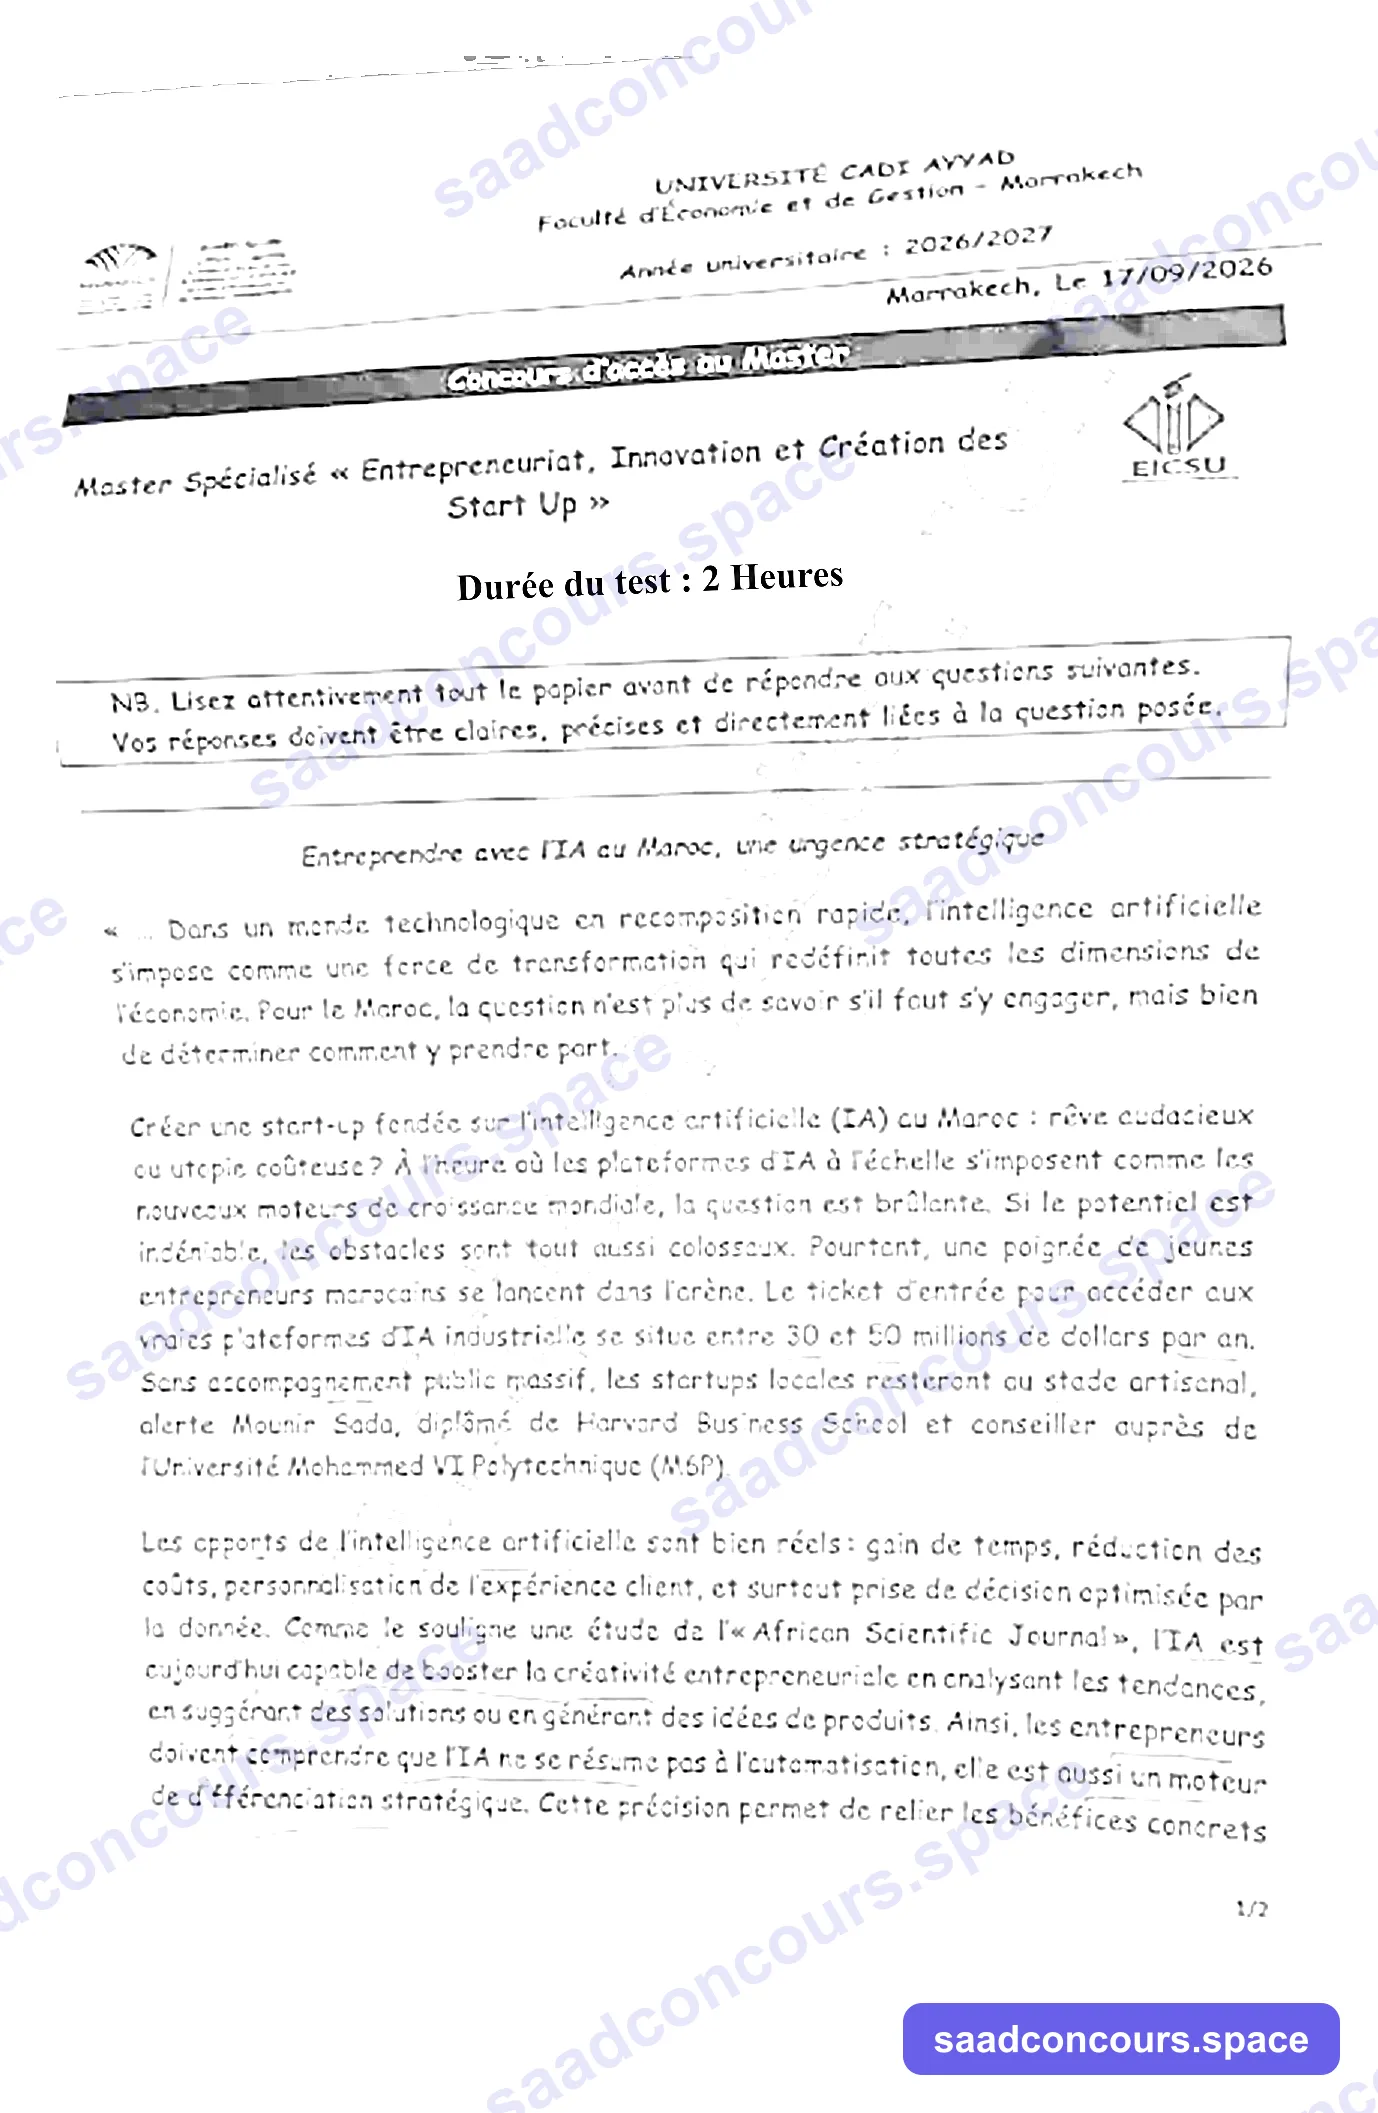
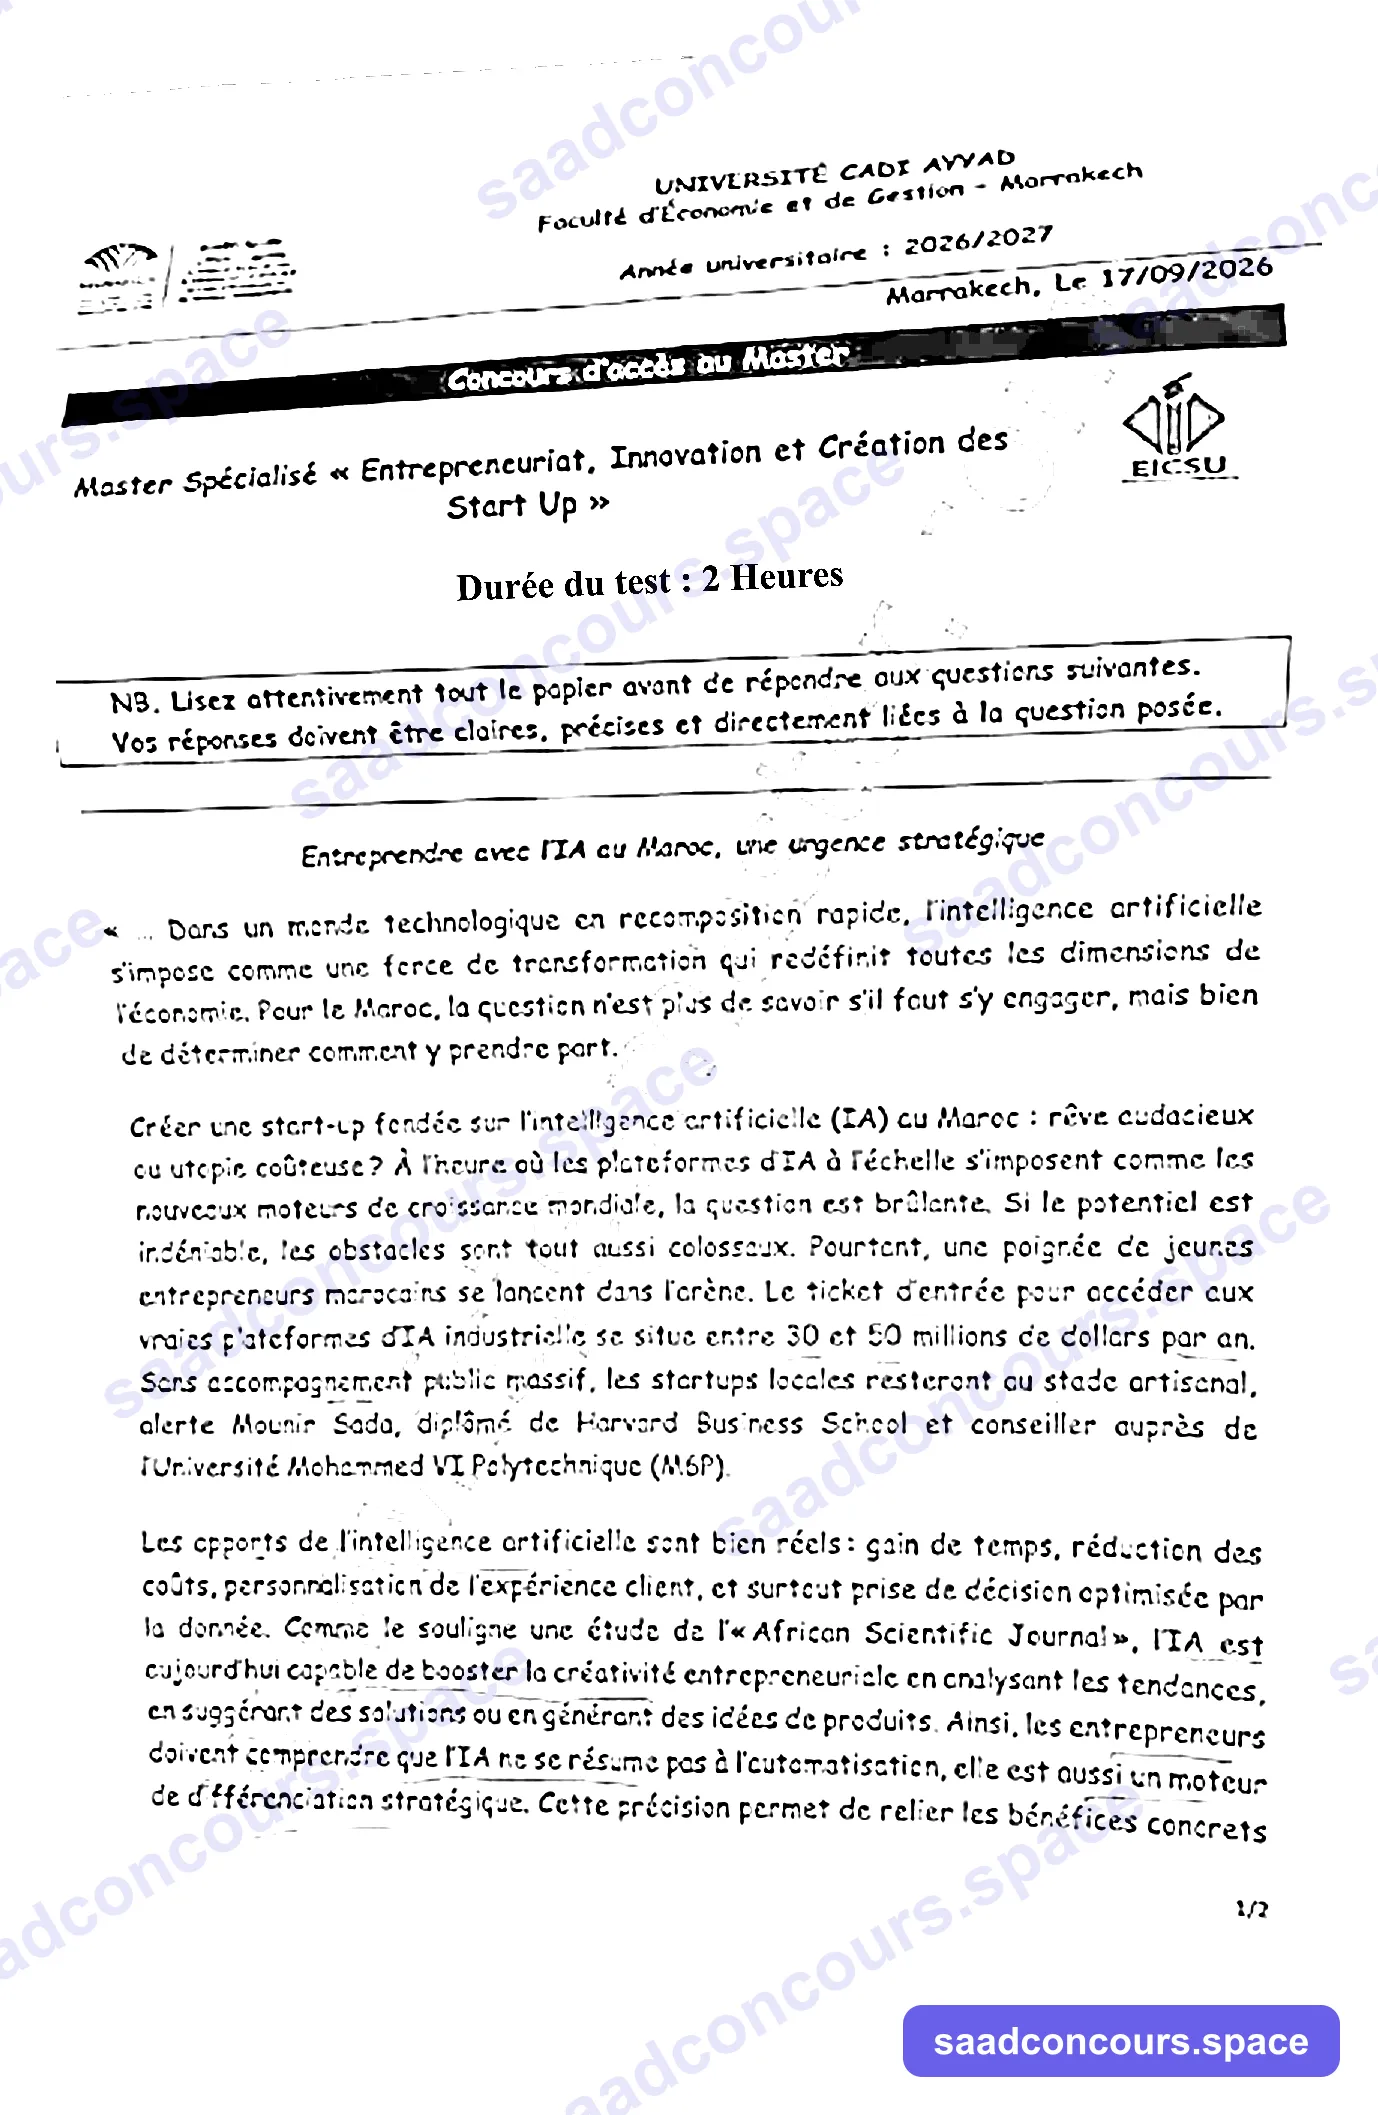
Fonce l'encre des scans EICSU 2026 de la FEG Marrakech
Les scans sortaient très clairs : nettoyer-scans.mjs ne rend noir que ce
qui est plus sombre que 60, et sur ces photos grises en basse résolution
(seuil abaissé à 222 pour le filigrane en diagonale), le cœur des lettres
restait gris pâle.

- nettoyer-scans.mjs : nouvelle option « noir » par image dans les
  exceptions (défaut 60, inchangé pour les autres scans).
- EICSU FEG Marrakech 2026 : « noir »: 170, scans régénérés depuis les
  photos d'origine ; le filigrane fsjesmaster ne revient pas.
- BANQUE_PROMPTS.md : cas « texte trop clair » ajouté au § Scans.

diff --git a/BANQUE_PROMPTS.md b/BANQUE_PROMPTS.md
@@ -249,6 +249,11 @@ Règles des champs :
   dans `scripts/nettoyer-scans.exceptions.json` ; une marque floue ratée et vérifiée à l'œil →
   `"seuilBande": 0.33`. Limites : un filigrane en diagonale aussi foncé que le texte reste visible
   en gris clair (seuil 238 ; plus bas, le texte fin des QCM disparaît, précédent CCA Agadir 2019).
+  **Texte trop clair** (photo grise, petite ou agrandie, et surtout avec un `seuil` abaissé) : le script
+  ne rend noir que ce qui est plus sombre que `noir` (60 par défaut), le reste sort gris pâle. Monter
+  `"noir": 170` dans les exceptions fonce l'encre sans faire revenir le filigrane (au-dessus de `seuil`,
+  tout reste blanc). Toujours comparer l'aperçu à la photo : le texte doit être aussi noir que l'original
+  (précédent : EICSU FEG Marrakech 2026, jugé « très éclairé » après publication).
   Passage de 2026-10-04 : 684 scans traités, environ 460 marques fsjesmaster effacées, et une
   centaine encore visible (marque collée au texte, petite ou très floue).
   **Ne pas passer `nettoyer-scans.mjs` sur mes propres photos sans filigrane tiers** : son seuil dur
